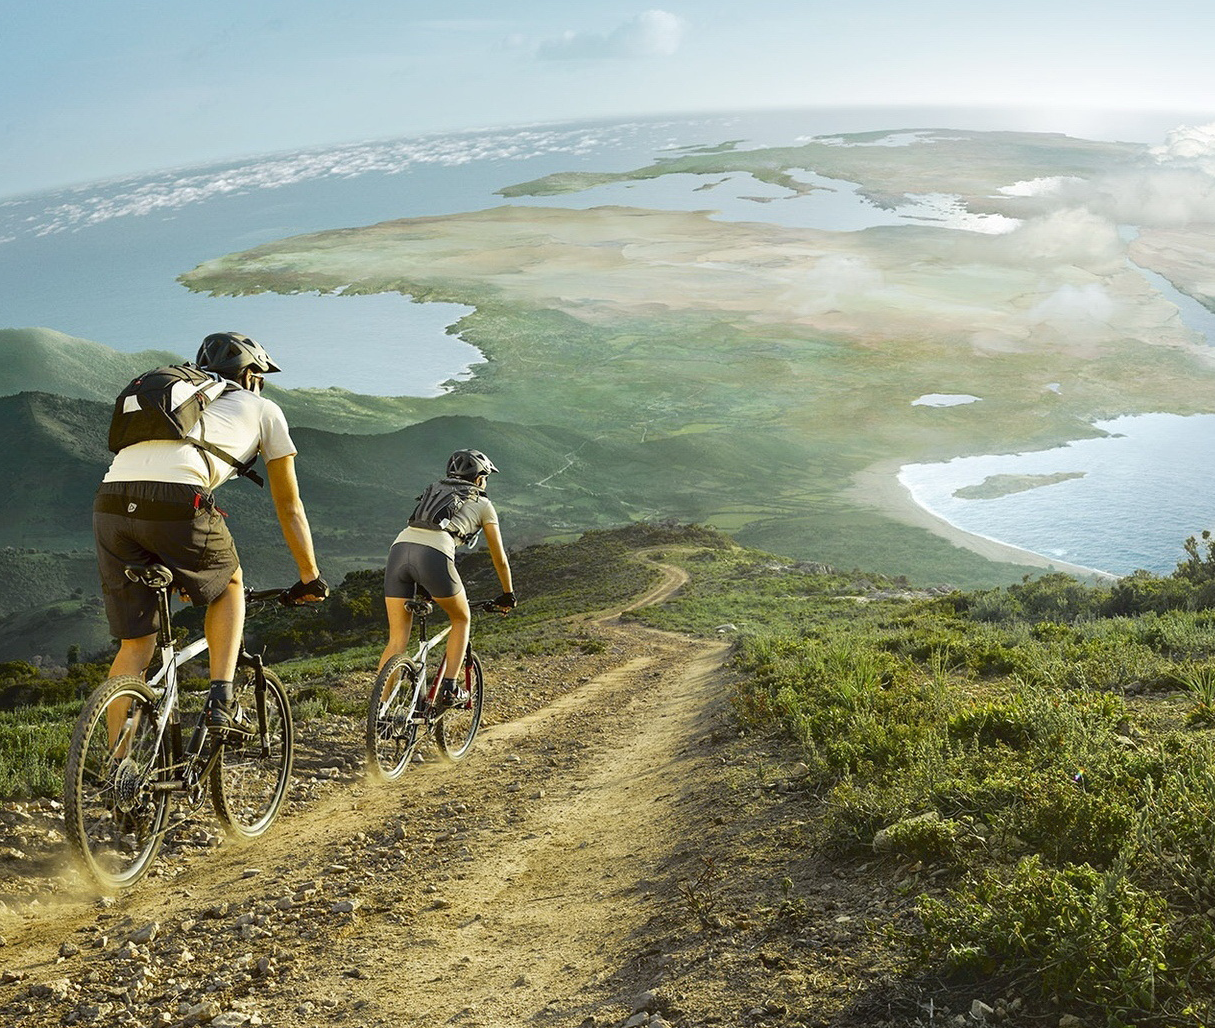
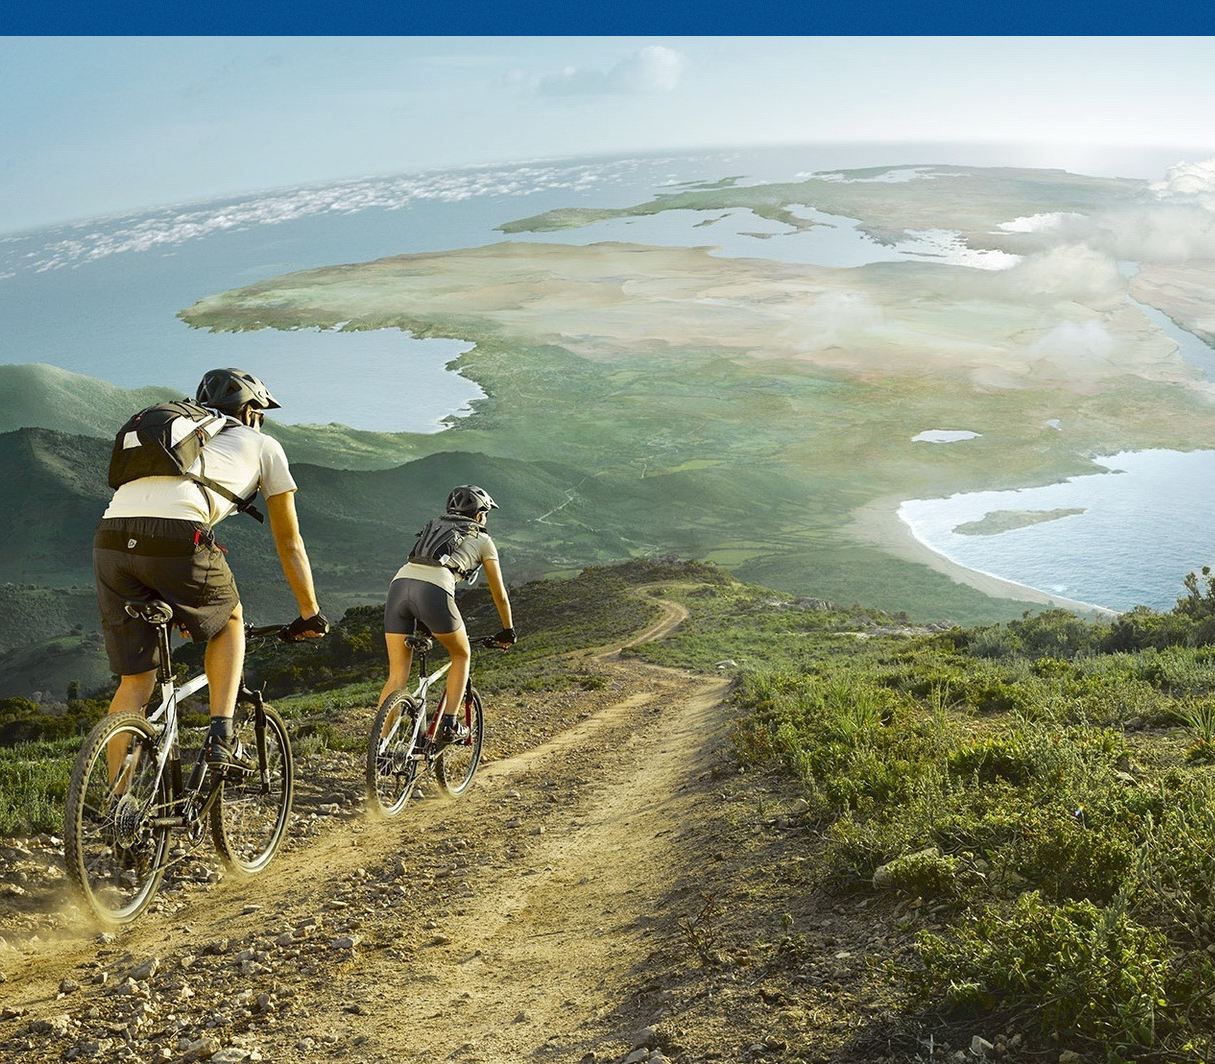
work

diff --git a/GoIT/markup/home/lesson5/css/style.css b/GoIT/markup/home/lesson5/css/style.css
@@ -12,7 +12,11 @@
 }
 
 body {
+	background-image: url(../img/bg.png);
+	background-repeat: no-repeat;
+	background-size: 100%;
 	font-family: helvetica_neue;
+	height: 1140px;
 }
 
 .clearfix:after {
@@ -21,28 +25,23 @@ body {
 	display: block;
 }
 
-header {
-	height: 33px;
-}
-
 .top_menu {
-	background-image: url(../img/top_menu.jpg);
-	background-repeat: no-repeat;
-	background-size: 100%;
-	background-height: 35px;
+	margin: 0 auto;
+	width: 1000px;
+	height: 40px;
 }
 
-.top_menu ul li{
+.top_menu p{
 	float: right;
-	height: 33px;
+
 }
 
 .flag {
-	margin: 5px 15px;
+	margin: 8px 15px;
 }
 
 .palka {
-	padding: 2px 10px;
+	padding: 5px 10px;
 }
 
 .mo {
@@ -51,7 +50,15 @@ header {
 	text-decoration: none;
 	font-size: 14px;
 	font-weight: bold;
-	padding: 8px 0;
+	padding: 13px 0 13px 44px;
+}
+
+.mo:before {
+	content: url(../img/flag.png);
+	position: absolute;
+    margin: -5px -45px;
+    border-left: 1px solid rgb(86, 162, 220);
+    padding: 0 15px;
 }
 
 .oe {
@@ -66,39 +73,31 @@ header {
 	margin: 0 20px;
 	border-left: 1px solid rgb(74,156,214);
 	border-right: 1px solid rgb(74,156,214);
-	line-height: 33px;
+	line-height: 40px;
 }
 
 .oe a {
 	color: white;
-} 
+}
 
 .menu li a {
 	display: block;
+	float: right;
 	color: rgb(96, 181, 237);
 	font-size: 14px;
 	text-decoration: none;
 	padding: 8px 20px;
-	line-height: 17px;
+	line-height: 24px;
 }
 
 .menu li:hover a {
 	background: rgb(78, 171, 218);
 	color: white;
-	font-weight: bold;
-}
-
-.panel {
-	background-image: url(../img/bg.png);
-	background-repeat: no-repeat;
-	background-size: 100%;
-	height: 1140px;
 }
 
 .b_panel {
-	position: absolute;
 	width: 560px;
-	margin: 20% 30%;
+	margin: 200px auto;
 }
 
 .b_panel1 {
@@ -120,60 +119,67 @@ header {
 }
 
 .button {
-	position: relative;
 	background: linear-gradient(to bottom, #3c579e 0%,#2b4578 100%);
 	margin: 30px auto 0 auto;
 	border-radius: 3px;
 	border-top: 1px solid rgb(126,141,184);
 	width: 280px;
 	height: 34px;
+	position: relative;
 }
 
-.button a, .button p  {
+.button a {
 	display: block;
 	color: white;
 	line-height: 35px;
 	font-weight: bold;
 	text-decoration: none;
-}
-
-.lb {
 	text-align: center;
-	float: left;
-	display: block;
-	width: 35px;
-	height: 34px;
-	border-right: 1px solid rgb(33,60,113);
+	margin-left: 55px;
 }
 
-.rb {
-	text-align: center;
-	float: right;
-	display: block;
-	width: 243px;
-	height: 34px;
-	border-left: 1px solid rgb(76,100,162);
-}
 
-.strelka {
+.log:after {
+	content: url(../img/strelka.png);
 	padding: 0 15px;
 }
 
-.poloska2 {
-	display: block;
-	margin: 0 auto;
-	padding-top: 35px;
+.log:before {
+	content: url(../img/fb.png);
+	position: absolute;
+	right: 241px;
 }
 
 .ou {
 	color: rgb(143,143,143);
 	font-size: 14px;
 	text-align: center;
-	margin-top: -10px;
+	margin-top: 20px;
+	position: relative;
+}
+
+.ou:before {
+	content: '';
+ 	width: 123px;
+ 	border-top: 1px solid #666;
+ 	border-bottom: 1px solid #000;
+	position: absolute;
+	left: 141px;
+	top: 7px;
+}
+
+.ou:after {
+	content: '';
+ 	width: 123px;
+ 	border-top: 1px solid #666;
+ 	border-bottom: 1px solid #000;
+	position: absolute;
+	right: 141px;
+	top: 7px;
 }
 
 form {
-	padding-top: 30px;
+	padding-top: 23px;
 }
 
 input[type="text"] {

diff --git a/GoIT/markup/home/lesson5/index.html b/GoIT/markup/home/lesson5/index.html
@@ -7,27 +7,21 @@
 	<link rel="stylesheet" href="css/style.css">
 </head>
 <body>
-	<header>
-		<div class="top_menu clearfix">
-			<div class="oe">
-				<p>Ola! <a href="#">Entrar</a> ou <a href="#">Codastre-se</a></p>
-			</div>
-			<ul>
-				<li><a href="#" class="mo">Minhas Ofertas</a></li>
-				<li><img class="flag" src="img/flag.png" alt="flag"></li>
-				<li><img class="palka" src="img/palka.png" alt="palka"></li>
-			</ul>
-			<div class="menu">
-				<ul>
-					<li><a href="#">Ajuda</a></li>
-					<li><a href="#">Contato</a></li>
-					<li><a href="#">Forum</a></li>
-					<li><a href="#">Vender</a></li>
-					<li><a href="#">Meu YouBike</a></li>
-				</ul>
-			</div>
+	<div class="top_menu clearfix">
+		<div class="oe">
+			<p>Ola! <a href="#">Entrar</a> ou <a href="#">Codastre-se</a></p>
 		</div>
-	</header>
+		<p class="mo">Minhas Ofertas</li>
+		<div class="menu">
+			<ul>
+				<li><a href="#">Ajuda</a></li>
+				<li><a href="#">Contato</a></li>
+				<li><a href="#">Forum</a></li>
+				<li><a href="#">Vender</a></li>
+				<li><a href="#">Meu YouBike</a></li>
+			</ul>
+		</div>
+	</div>
 	<div class="panel clearfix">
 		<div class="b_panel">
 			<div class="b_panel1">
@@ -35,17 +29,15 @@
 			</div>
 			<div class="b_panel2">
 				<div class="button">
-				<div class="lb"><p>f</p></div>
-				<div class="rb"><a href="#">Log In with Facebook<img class="strelka" src="img/strelka.png"></a></div>
+				<a href="#" class="log">Log In with Facebook</a>
 			</div>
-			<a href="#"><img class="poloska2" src="img/poloska.png" alt="fb"></a>
 			<p class="ou">OU</p>
 			<form action="#" method="POST">
-				<input type="text" value="First Name" name="fname">
-				<input type="text" value="Last Name" name="lname">
-				<input type="text" value="Email Address" name="email">
-				<input type="text" value="Choose Password" name="pas">
-				<input type="text" value="Password Confirm" name="pas2">
+				<input type="text" placeholder="First Name" name="fname">
+				<input type="text" placeholder="Last Name" name="lname">
+				<input type="text" placeholder="Email Address" name="email">
+				<input type="text" placeholder="Choose Password" name="pas">
+				<input type="text" placeholder="Password Confirm" name="pas2">
 				<label><input type="checkbox" id="cbox1">Send me Youbike updates and tips</label>
 				<input type="submit" class="create" value="Create My Account">
 			</form>
